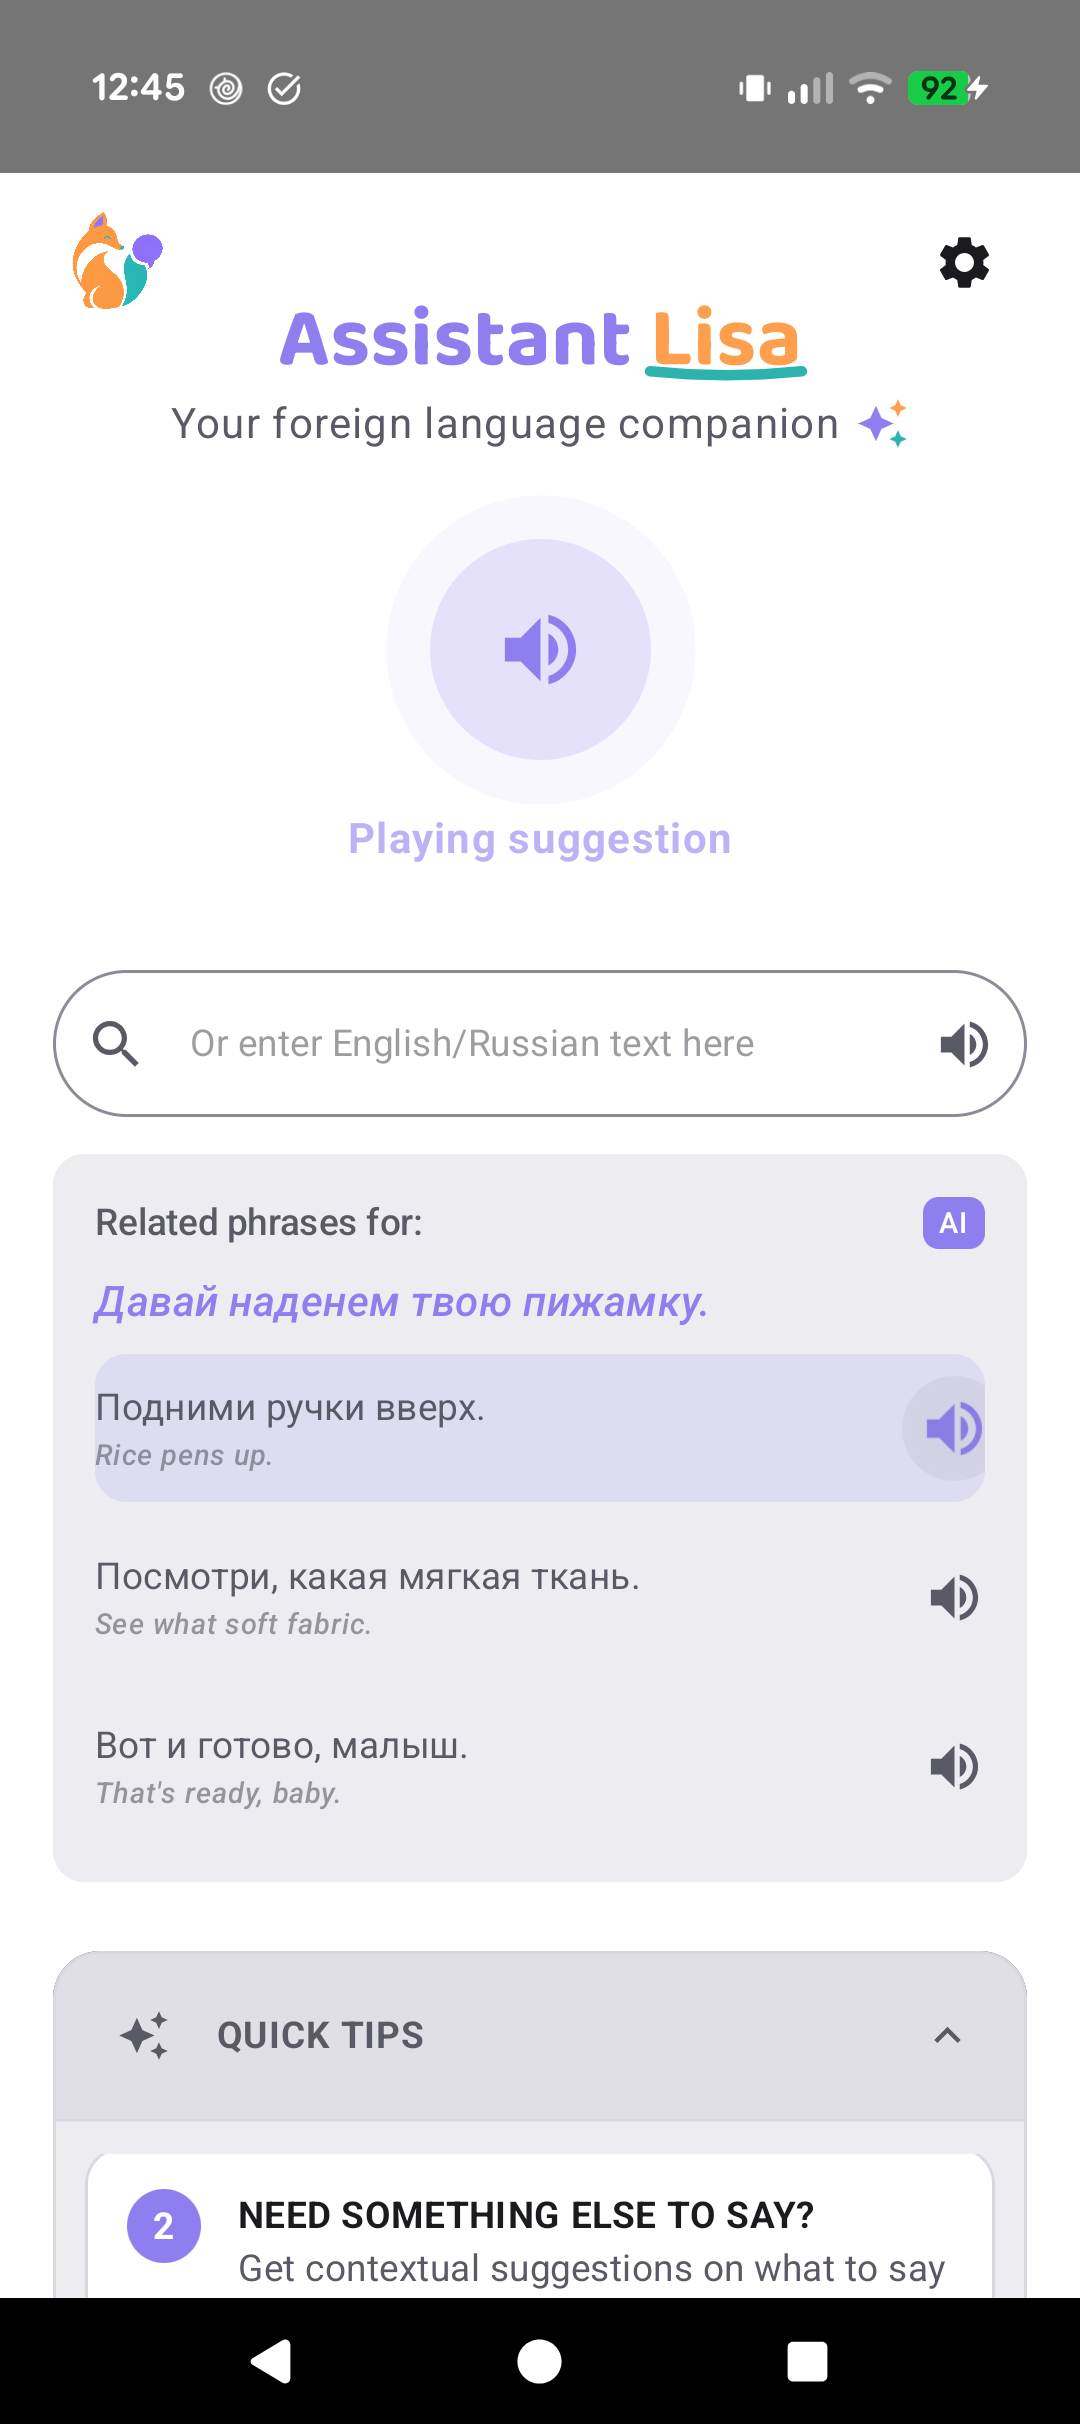
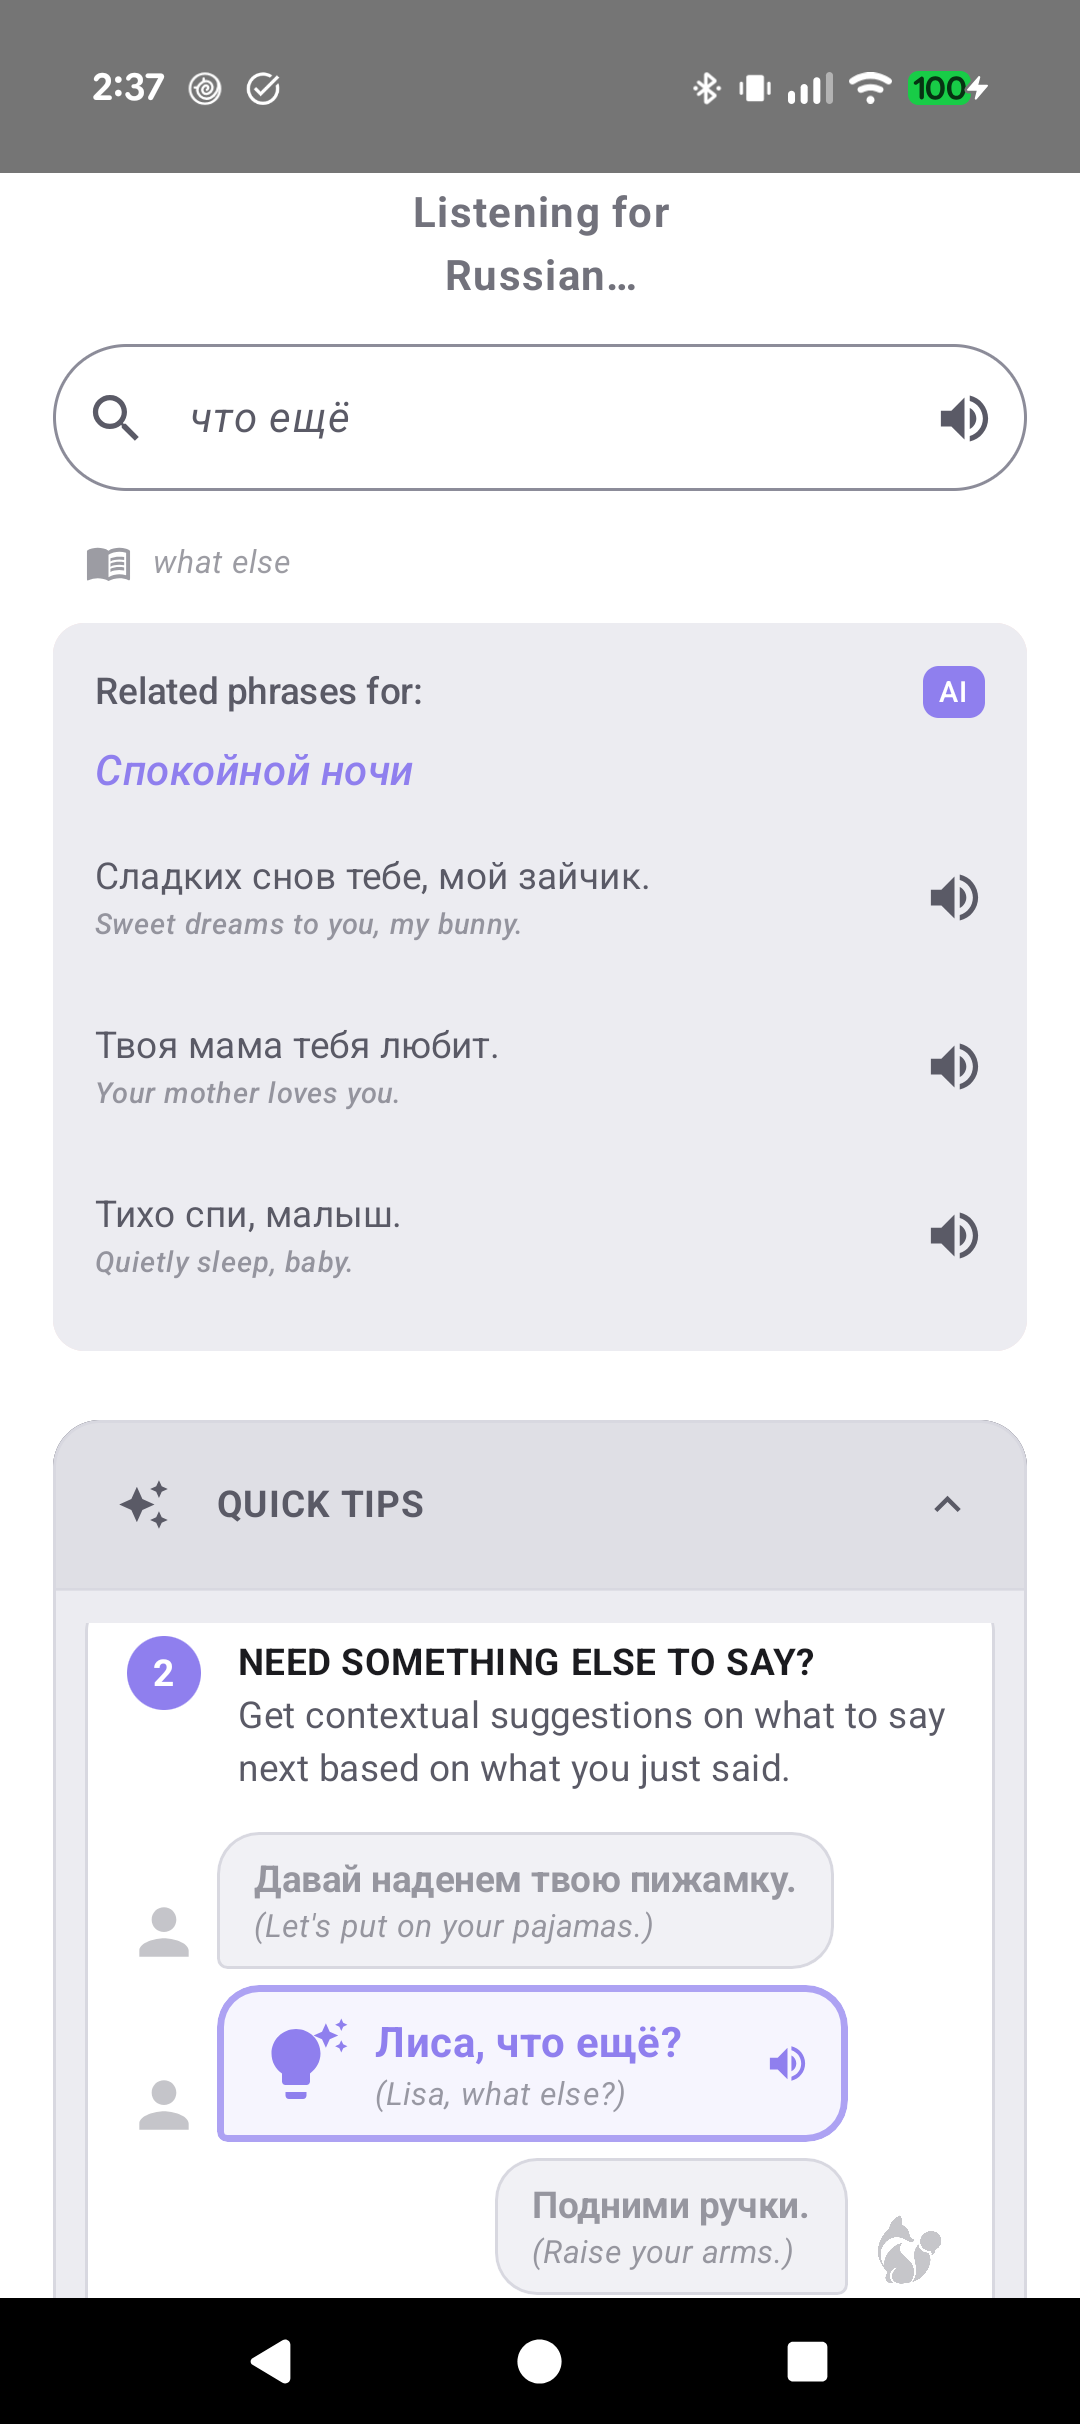
docs: use uniform-size screenshots, reorder What else? to the middle

diff --git a/README.md b/README.md
@@ -12,17 +12,17 @@ What started as a Russian-only tool has grown into a general bilingual-parenting
 
 | First launch | Home |
 |---|---|
-| ![Onboarding popup: "Hi, I'm Lisa" — pick who you're talking to](android/design/screenshots/onboarding_popup.png) | ![Home screen with the four voice-command shortcuts](android/design/screenshots/home_main.png) |
+| <img src="android/design/screenshots/onboarding_popup.png" width="240" alt='Onboarding popup: "Hi, I'm Lisa" — pick who you're talking to'> | <img src="android/design/screenshots/home_main.png" width="240" alt="Home screen with the four voice-command shortcuts"> |
 
 **The four voice commands in action** — say the command (or type/tap the equivalent), then the phrase:
 
-| "How to say?" (translate) | "What does that mean?" (expand) | "What else?" (AI suggestions) |
+| "How to say?" (translate) | "What else?" (AI suggestions, hands-free) | "What does that mean?" (expand) |
 |---|---|---|
-| ![Как сказать? — "sleepy" translated to сонный](android/design/screenshots/how_to_say_result.png) | ![Что это значит? — meaning of a Russian phrase](android/design/screenshots/what_does_that_mean_result.png) | ![Что ещё? — AI-generated related phrases](android/design/screenshots/what_else_result.png) |
+| <img src="android/design/screenshots/how_to_say_result.png" width="240" alt="Как сказать? — sleepy translated to сонный"> | <img src="android/design/screenshots/what_else_result.png" width="240" alt="Lisa listening hands-free, что ещё — AI-generated related phrases"> | <img src="android/design/screenshots/what_does_that_mean_result.png" width="240" alt="Что это значит? — meaning of a Russian phrase"> |
 
 | Quick tips | Settings |
 |---|---|
-| ![Quick tips panel expanded on the home screen](android/design/screenshots/home_quick_tips.png) | ![Settings screen: language, appearance, "what else?" timing, server connection](android/design/screenshots/settings.png) |
+| <img src="android/design/screenshots/home_quick_tips.png" width="240" alt="Quick tips panel expanded on the home screen"> | <img src="android/design/screenshots/settings.png" width="240" alt='Settings screen: language, appearance, "what else?" timing, server connection'> |
 
 ## The technical part
 

diff --git a/android/README.md b/android/README.md
@@ -14,15 +14,15 @@ characters) — no mode toggle needed in the app.
 
 | First launch | Home |
 |---|---|
-| ![Onboarding popup: "Hi, I'm Lisa" — pick who you're talking to](design/screenshots/onboarding_popup.png) | ![Home screen with the four voice-command shortcuts](design/screenshots/home_main.png) |
+| <img src="design/screenshots/onboarding_popup.png" width="240" alt='Onboarding popup: "Hi, I'm Lisa" — pick who you're talking to'> | <img src="design/screenshots/home_main.png" width="240" alt="Home screen with the four voice-command shortcuts"> |
 
-| "How to say?" (translate) | "What does that mean?" (expand) | "What else?" (AI suggestions) |
+| "How to say?" (translate) | "What else?" (AI suggestions, hands-free) | "What does that mean?" (expand) |
 |---|---|---|
-| ![Как сказать? — "sleepy" translated to сонный](design/screenshots/how_to_say_result.png) | ![Что это значит? — meaning of a Russian phrase](design/screenshots/what_does_that_mean_result.png) | ![Что ещё? — AI-generated related phrases](design/screenshots/what_else_result.png) |
+| <img src="design/screenshots/how_to_say_result.png" width="240" alt="Как сказать? — sleepy translated to сонный"> | <img src="design/screenshots/what_else_result.png" width="240" alt="Lisa listening hands-free, что ещё — AI-generated related phrases"> | <img src="design/screenshots/what_does_that_mean_result.png" width="240" alt="Что это значит? — meaning of a Russian phrase"> |
 
 | Quick tips | Settings |
 |---|---|
-| ![Quick tips panel expanded on the home screen](design/screenshots/home_quick_tips.png) | ![Settings screen: language, appearance, "what else?" timing, server connection](design/screenshots/settings.png) |
+| <img src="design/screenshots/home_quick_tips.png" width="240" alt="Quick tips panel expanded on the home screen"> | <img src="design/screenshots/settings.png" width="240" alt='Settings screen: language, appearance, "what else?" timing, server connection'> |
 
 This talks to `orchestration-service`'s `POST /assist` endpoint directly
 (port 8002), not `ingestion-service`'s `/event/voice` (that endpoint still
